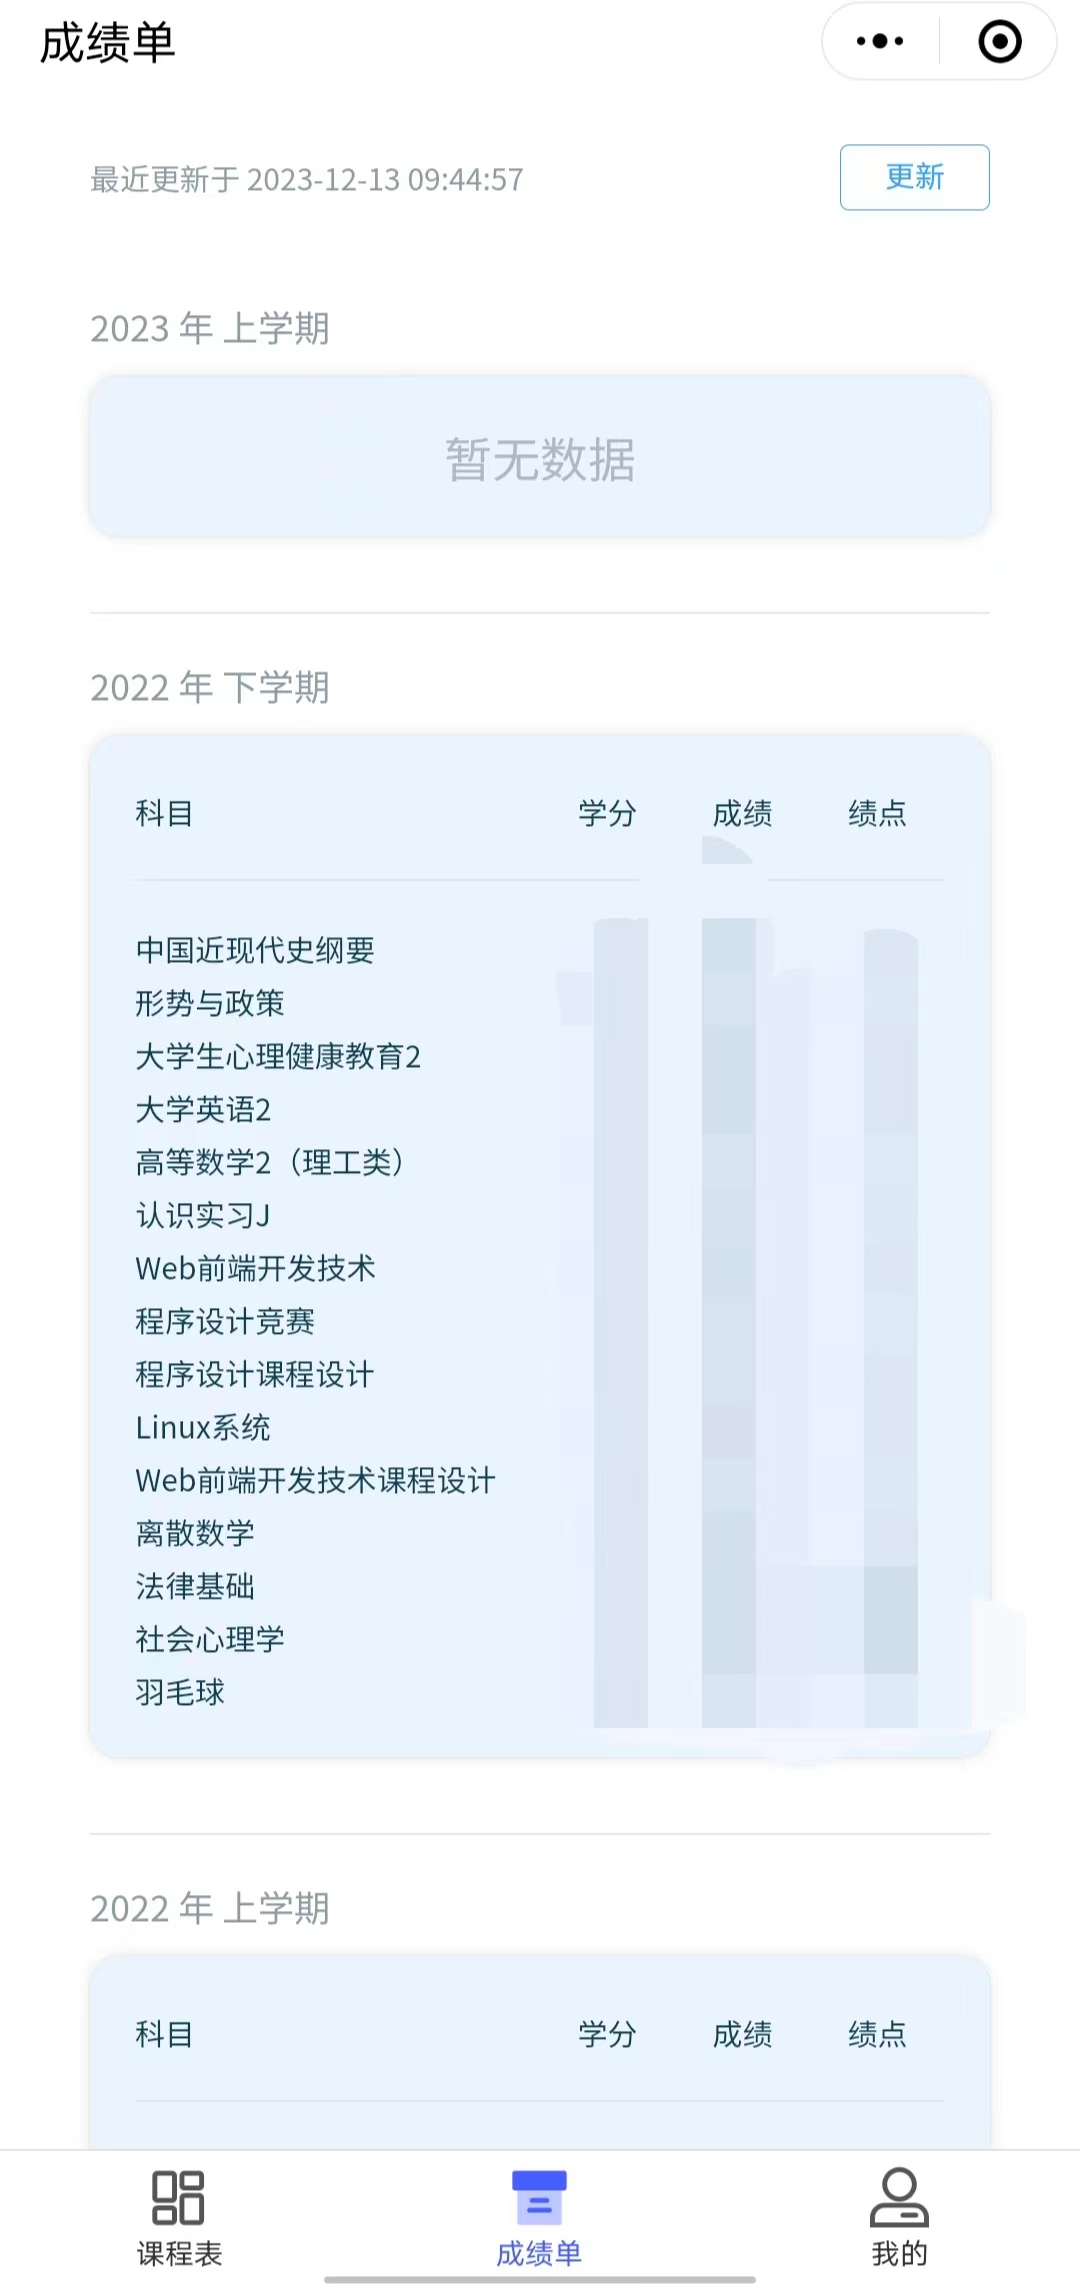
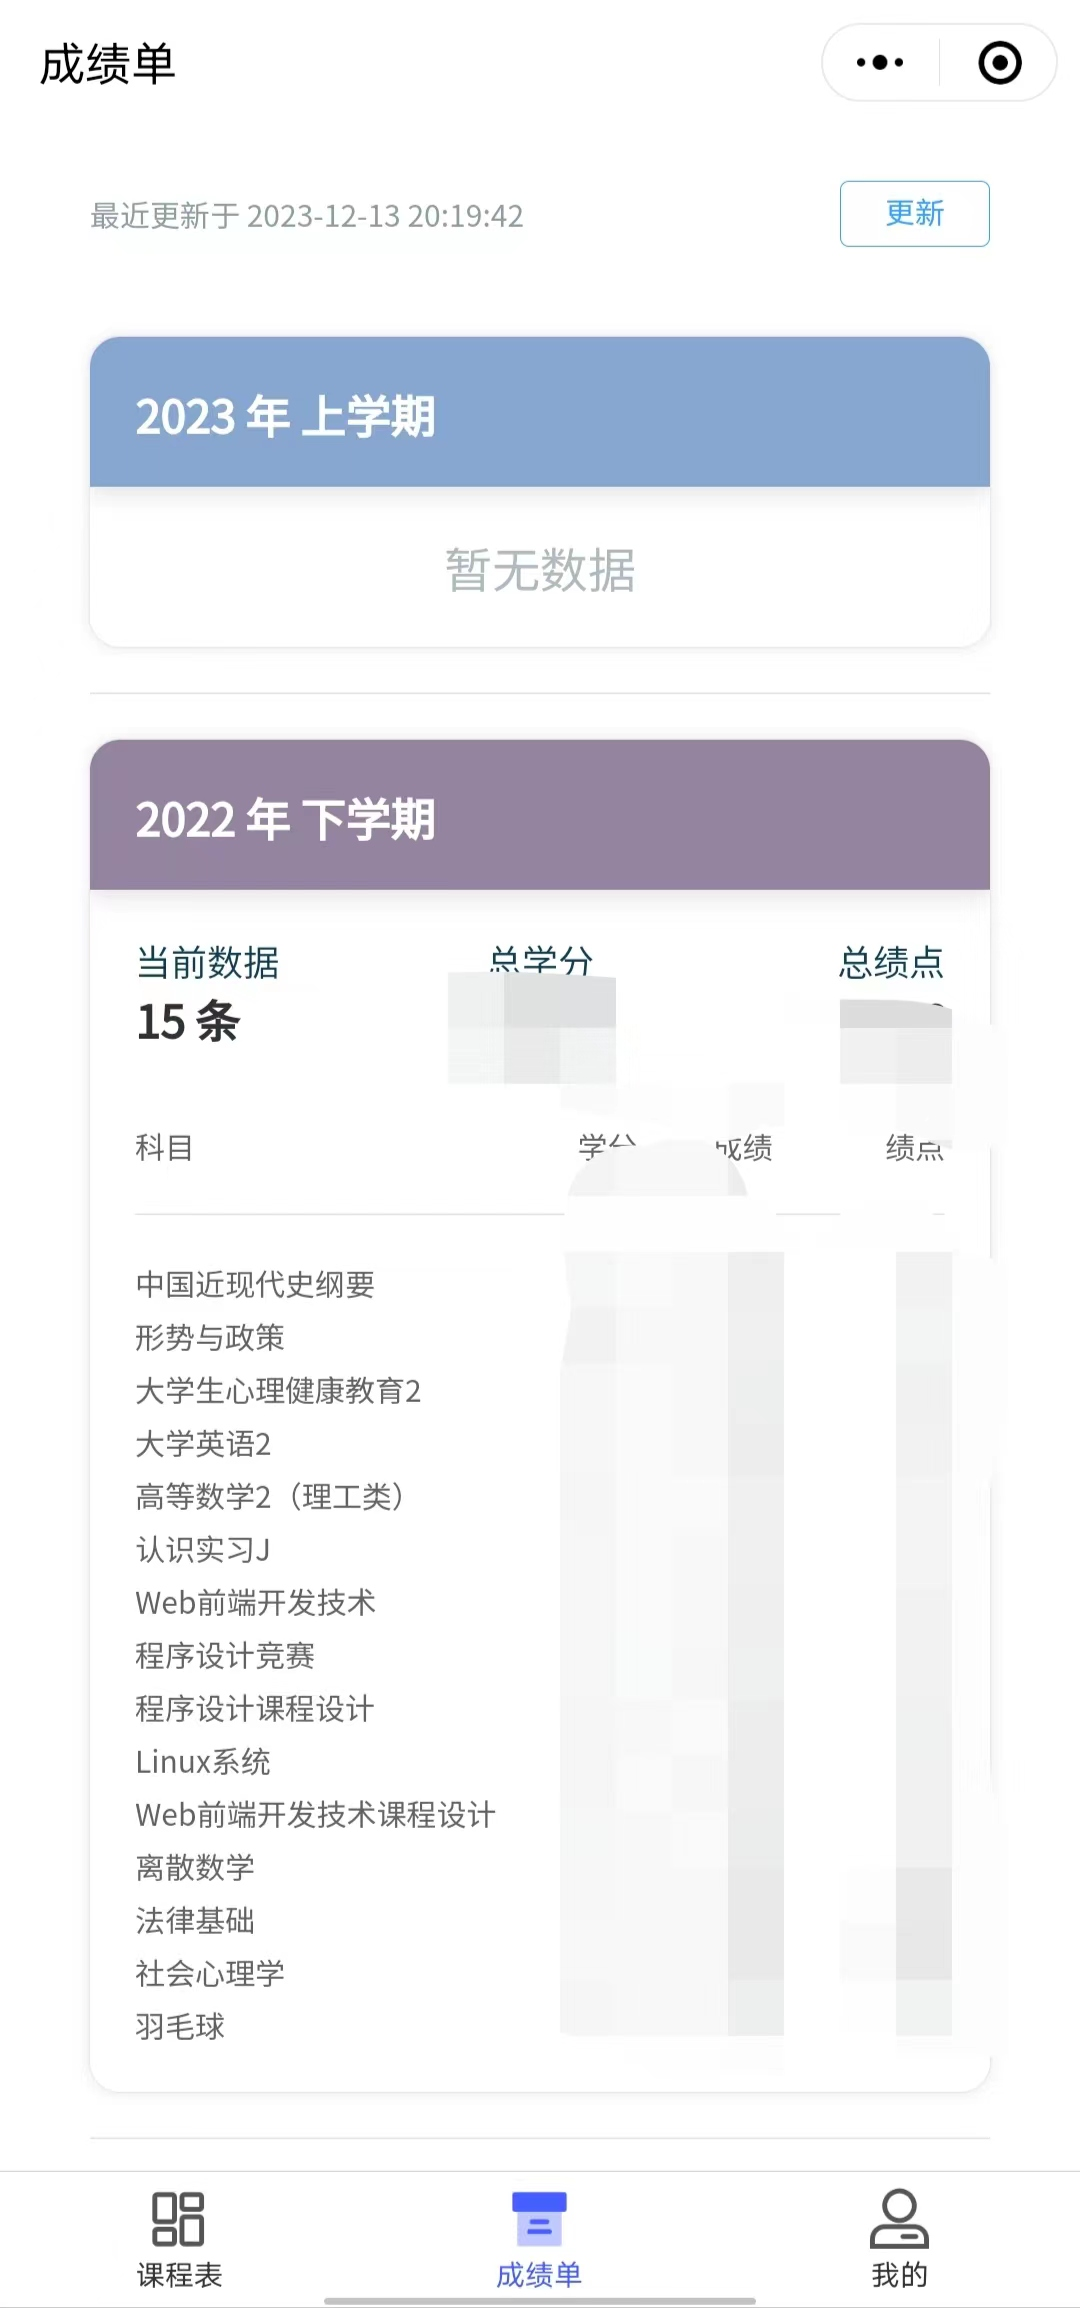
全新成绩单

diff --git a/uniapp/pages/score/index.vue b/uniapp/pages/score/index.vue
@@ -26,53 +26,79 @@
                 <u-col>
                     <view>
                         <view v-for="item in scoreList">
-                            <view slot="desc"><text class="title">{{ item.year }} 年 {{ item.semester == '1' ? '上学期' : '下学期' }}</text>
-                                <view class="score-container">
-                                    <view v-if="item.exams != null && item.exams.length == 0">
-                                        <u-skeleton rows="2" title loading></u-skeleton>
+                            <view class="score-box">
+                                <view class="header" :style="{ backgroundColor: mathColor() }">
+                                    <view class="title">{{ item.year }} 年 {{ item.semester == '1' ? '上学期' : '下学期' }}</view>
+                                </view>
+                                <view class="main" v-if="item.exams != null && item.exams.length == 0">
+                                    <u-skeleton rows="2" title loading></u-skeleton>
+                                </view>
+                                <view class="main" v-else-if="item.exams == null">
+                                    <view style="width:100%;text-align:center;color:rgb(176,185,189)">暂无数据
                                     </view>
-                                    <view v-else-if="item.exams == null">
-                                        <view class="score-box">
-                                            <view style="width:100%;text-align:center;color:rgb(176,185,189)">暂无数据
+                                </view>
+
+                                <view class="main" v-else>
+                                    <view class="info-container">
+                                        <view class="item" style="text-align:left;">
+                                            <view class="title">当前数据</view>
+                                            <view class="data">{{ item.exams.length }} 条</view>
+
+                                        </view>
+                                        <view class="item" style="text-align:center;">
+                                            <view class="title">总学分</view>
+                                            <view class="data">
+                                                {{ item.exams.reduce((acc, obj) => {
+                                                    const numericValue = parseFloat(obj.exam_credit_points);
+                                                    const intValue = isNaN(numericValue) ? 0 : Math.round(numericValue * 100);
+                                                    return (acc * 100 + intValue) / 100;
+                                                }, 0) }}</view>
+
+                                        </view>
+                                        <view class="item" style="text-align:right;">
+                                            <view class="title">总绩点</view>
+                                            <view class="data">
+                                                {{ item.exams.reduce((acc, obj) => {
+                                                    const numericValue = parseFloat(obj.exam_gpa);
+                                                    const intValue = isNaN(numericValue) ? 0 : Math.round(numericValue * 100);
+                                                    return (acc * 100 + intValue) / 100;
+                                                }, 0) }}
                                             </view>
                                         </view>
-
                                     </view>
-                                    <view class="score-box" v-else>
-                                        <u-row justify="space-between">
-                                            <u-col span="6">
-                                                <view>科目</view>
-                                            </u-col>
-                                            <u-col span="2" textAlign="center">
-                                                <view>学分</view>
-                                            </u-col>
-                                            <u-col span="2" textAlign="center">
-                                                <view>成绩</view>
-                                            </u-col>
-                                            <u-col span="2" textAlign="center">
-                                                <view>绩点</view>
-                                            </u-col>
-                                        </u-row>
-                                        <u-divider :hairline="true"></u-divider>
-                                        <u-row justify="space-between" v-for="exams in item.exams">
-                                            <u-col span="6">
-                                                <view>{{ exams.exam_name }} {{ exams.exam_makeup_score ? '【补】' :
-                                                    exams.exam_regrade_score ? '【修】' : '' }}</view>
-                                            </u-col>
-                                            <u-col span="2" textAlign="center">
-                                                <view>{{ exams.exam_credit_points }}</view>
-                                            </u-col>
-                                            <u-col span="2" textAlign="center">
-                                                <view>{{ exams.exam_regrade_score ? exams.exam_regrade_score + '分' :
-                                                    exams.exam_regrade_score ? exams.exam_regrade_score + '分' :
-                                                        isNaN(exams.exam_score) ? exams.exam_score : exams.exam_score +
-                                                            '分' }}</view>
-                                            </u-col>
-                                            <u-col span="2" textAlign="center">
-                                                <view>{{ exams.exam_gpa }}</view>
-                                            </u-col>
-                                        </u-row>
-                                    </view>
+                                    <u-row justify="space-between">
+                                        <u-col span="6">
+                                            <view>科目</view>
+                                        </u-col>
+                                        <u-col span="2" textAlign="center">
+                                            <view>学分</view>
+                                        </u-col>
+                                        <u-col span="2" textAlign="center">
+                                            <view>成绩</view>
+                                        </u-col>
+                                        <u-col span="2" textAlign="right">
+                                            <view>绩点</view>
+                                        </u-col>
+                                    </u-row>
+                                    <u-divider :hairline="true"></u-divider>
+                                    <u-row justify="space-between" v-for="exams in item.exams">
+                                        <u-col span="6">
+                                            <view>{{ exams.exam_name }} {{ exams.exam_makeup_score ? '【补】' :
+                                                exams.exam_regrade_score ? '【修】' : '' }}</view>
+                                        </u-col>
+                                        <u-col span="2" textAlign="center">
+                                            <view>{{ exams.exam_credit_points }}</view>
+                                        </u-col>
+                                        <u-col span="2" textAlign="center">
+                                            <view>{{ exams.exam_regrade_score ? exams.exam_regrade_score + '分' :
+                                                exams.exam_regrade_score ? exams.exam_regrade_score + '分' :
+                                                    isNaN(exams.exam_score) ? exams.exam_score : exams.exam_score +
+                                                        '分' }}</view>
+                                        </u-col>
+                                        <u-col span="2" textAlign="right">
+                                            <view>{{ exams.exam_gpa }}</view>
+                                        </u-col>
+                                    </u-row>
                                 </view>
                             </view>
                             <u-divider color="#fa3534" half-width="200" border-color="#6d6d6d"></u-divider>
@@ -85,7 +111,7 @@
     </view>
 </template>
 <script>
-import { getExamsList, updateExamsList, checkUserToken } from '../../common/api';
+import { getExamsList, updateExamsList } from '../../common/api';
 
 export default {
     data() {
@@ -151,32 +177,69 @@ export default {
             this.scoreList = [];
             this.getScoreData();
             this.loading = false;
+        },
+        mathColor() {
+            const randomR = Math.random() * 120;
+            const randomG = Math.random() * 150;
+            const randomB = Math.random() * 256;
+            return `rgba(${randomR},${randomG},${randomB},0.5)`;
         }
     },
 }
 </script>
 <style lang="scss">
-.score-container {
-    width: 100%;
-    padding-bottom: 10px;
-}
-
-.title {
-    font-size: 12px;
-    color: #8f9ca2;
-    margin-bottom: 8px;
-    display: flex;
-    flex-direction: row;
-}
-
 .score-box {
     width: 100%;
-    background-color: rgb(236, 245, 255);
+    margin-bottom: 10px;
+    background-color: rgb(255, 255, 255);
     border-radius: 10px;
-    padding: 15px;
     box-sizing: border-box;
     color: #123c50;
     box-shadow: rgba(0, 0, 0, 0.1) 0px 0px 5px 0px, rgba(0, 0, 0, 0.1) 0px 0px 1px 0px;
+    overflow: hidden;
+}
+
+.score-box .header {
+    width: 100%;
+    height: 50px;
+    padding: 15px;
+    box-sizing: border-box;
+    background-color: rgb(59, 164, 253);
+    box-shadow: rgba(99, 99, 99, 0.2) 0px 2px 8px 0px;
+}
+
+.score-box .main {
+    width: 100%;
+    color: rgb(96, 98, 102);
+    padding: 15px;
+    box-sizing: border-box;
+}
+
+.score-box .header .title {
+    font-size: 15px;
+    font-weight: bold;
+    color: #ffffff;
+}
+
+.score-box .info-container {
+    width: 100%;
+    height: 60px;
+    display: flex;
+}
+
+.score-box .info-container .item {
+    flex: 1;
+}
+
+.score-box .info-container .item .title {
+    color: #123c50;
+    font-size: 12px;
+}
+
+.score-box .info-container .item .data {
+    color: #303133;
+    font-size: 15px;
+    font-weight: bolder;
 }
 
 .score-box .u-row {
@@ -191,8 +254,8 @@ export default {
 .info {
     font-size: 10px;
     color: rgb(96, 98, 102);
-    padding-top: 10px;
-    padding-bottom: 10px;
     text-align: center;
+    padding-bottom: 10px;
 }
+
 </style>

diff --git a/uniapp/common/config.js b/uniapp/common/config.js
@@ -1,3 +1,4 @@
 module.exports = {
+    // baseUrl: 'http://127.0.0.1:7800/'
     baseUrl: 'https://api.score.lnsec.cn/'
 }
